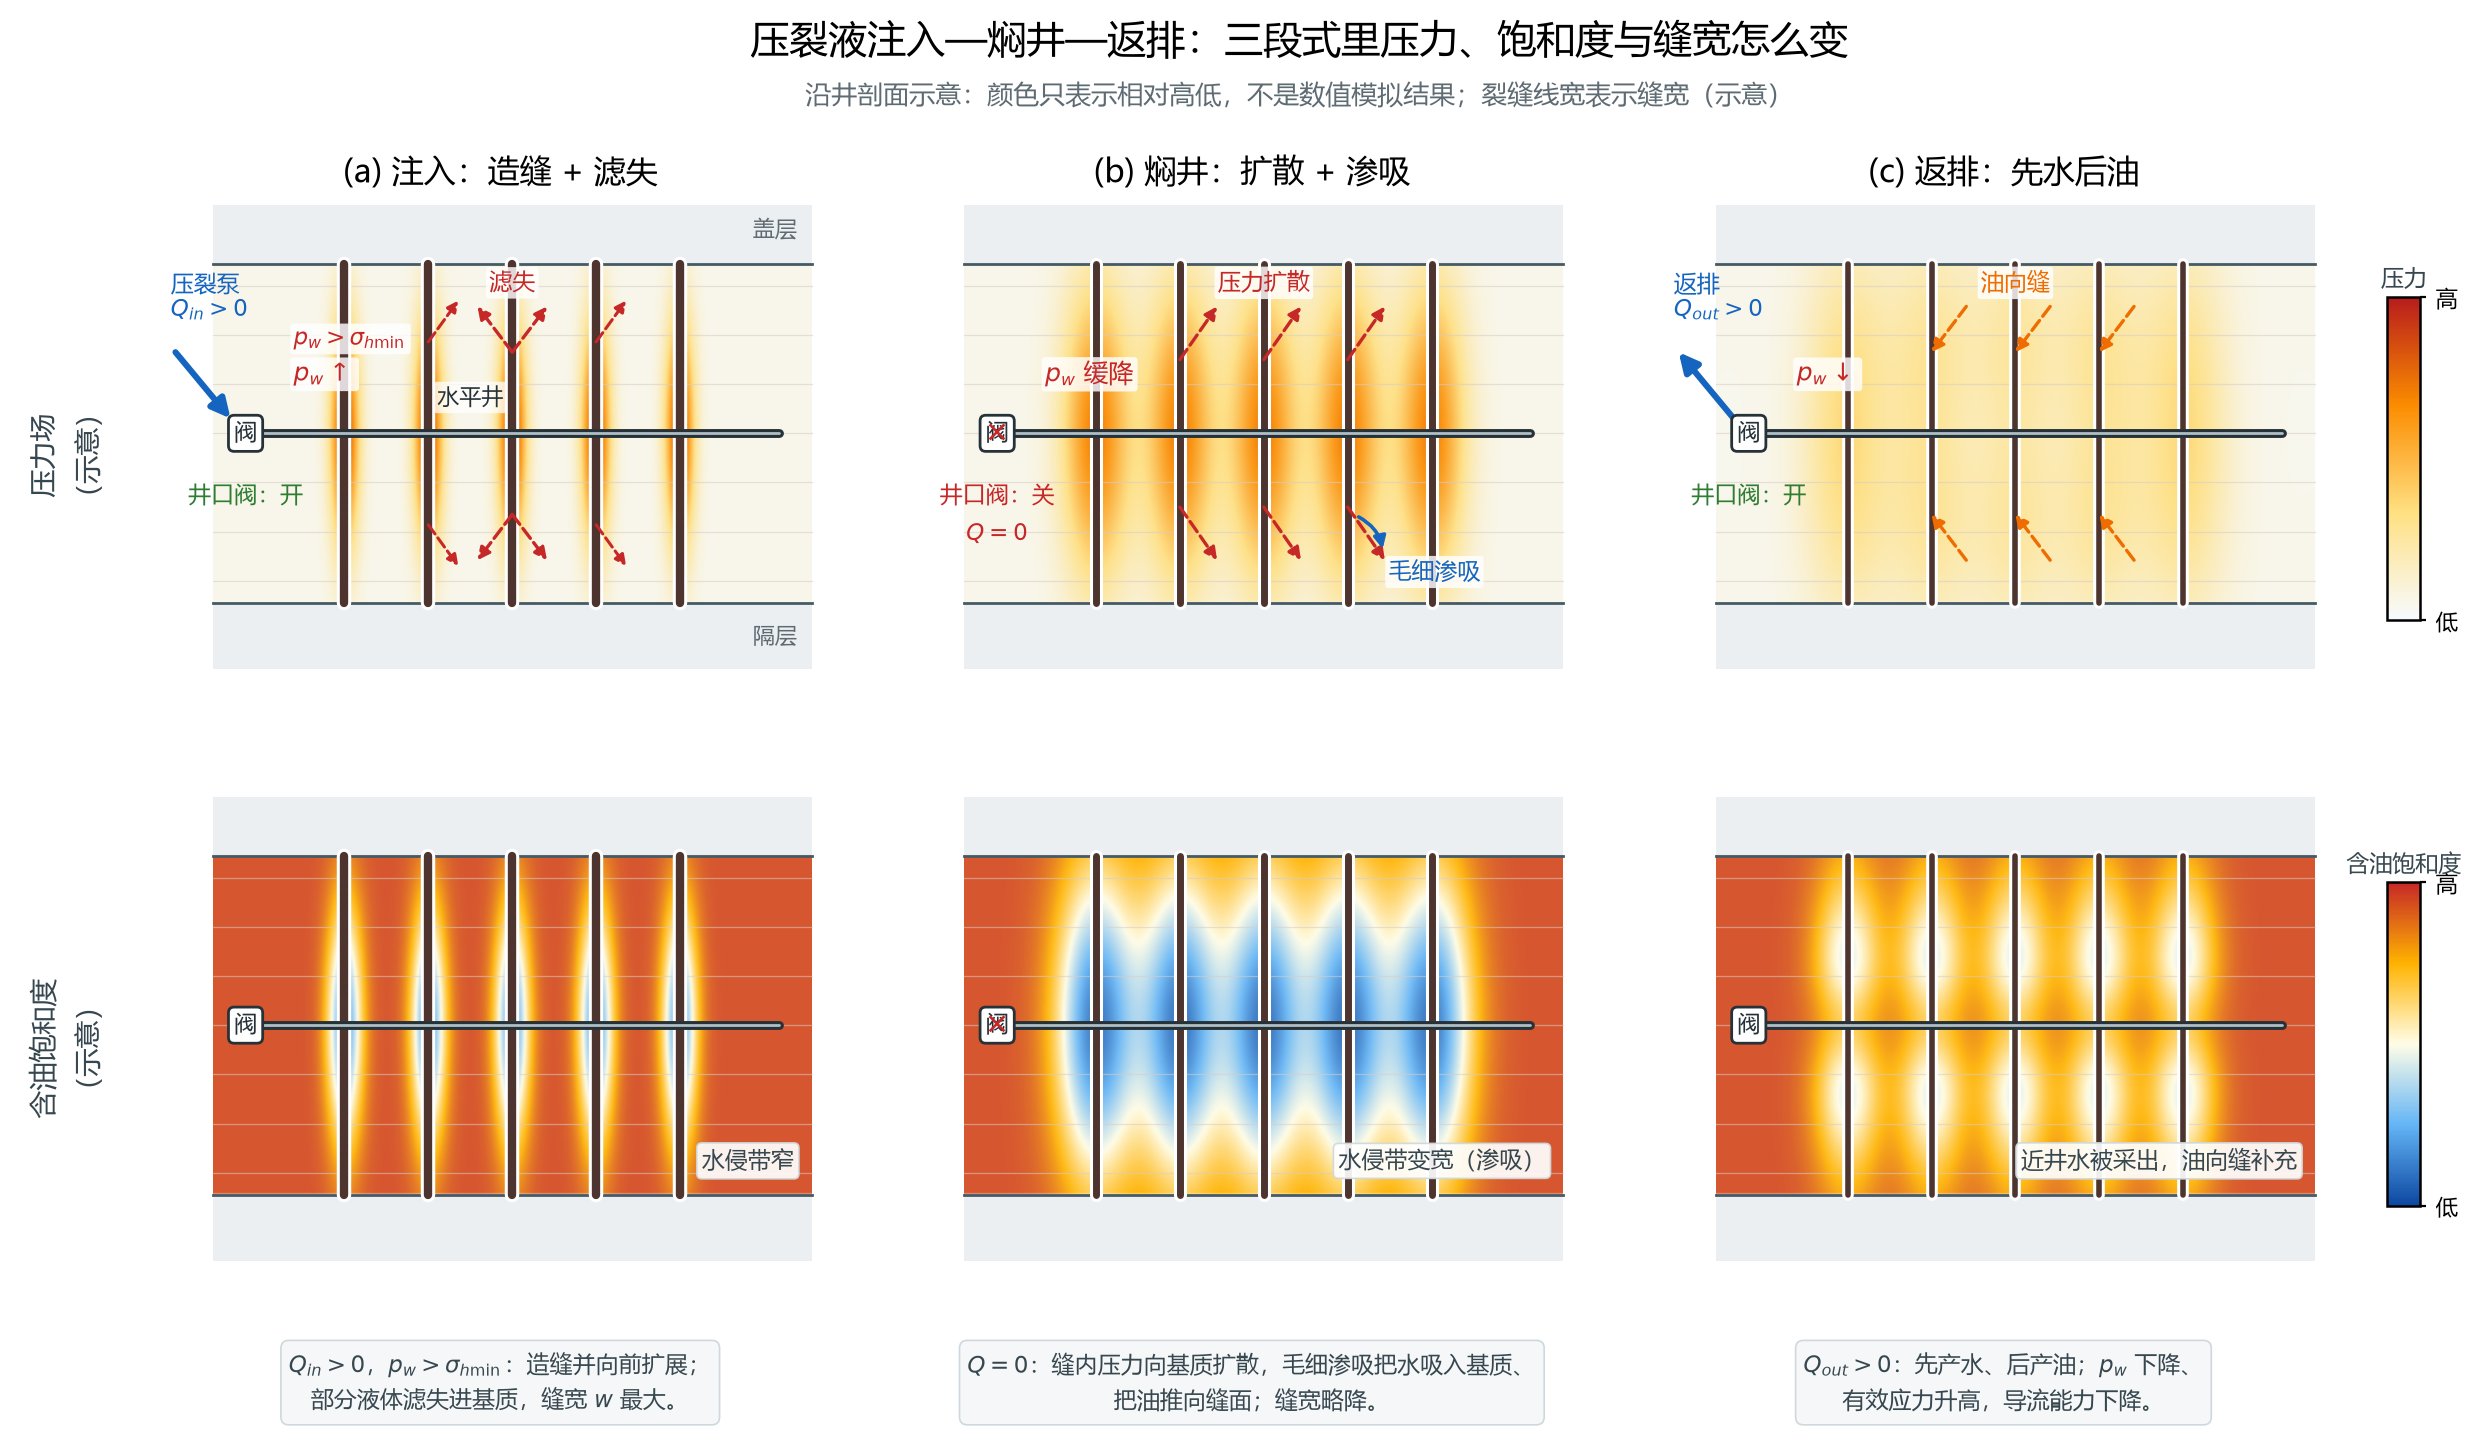
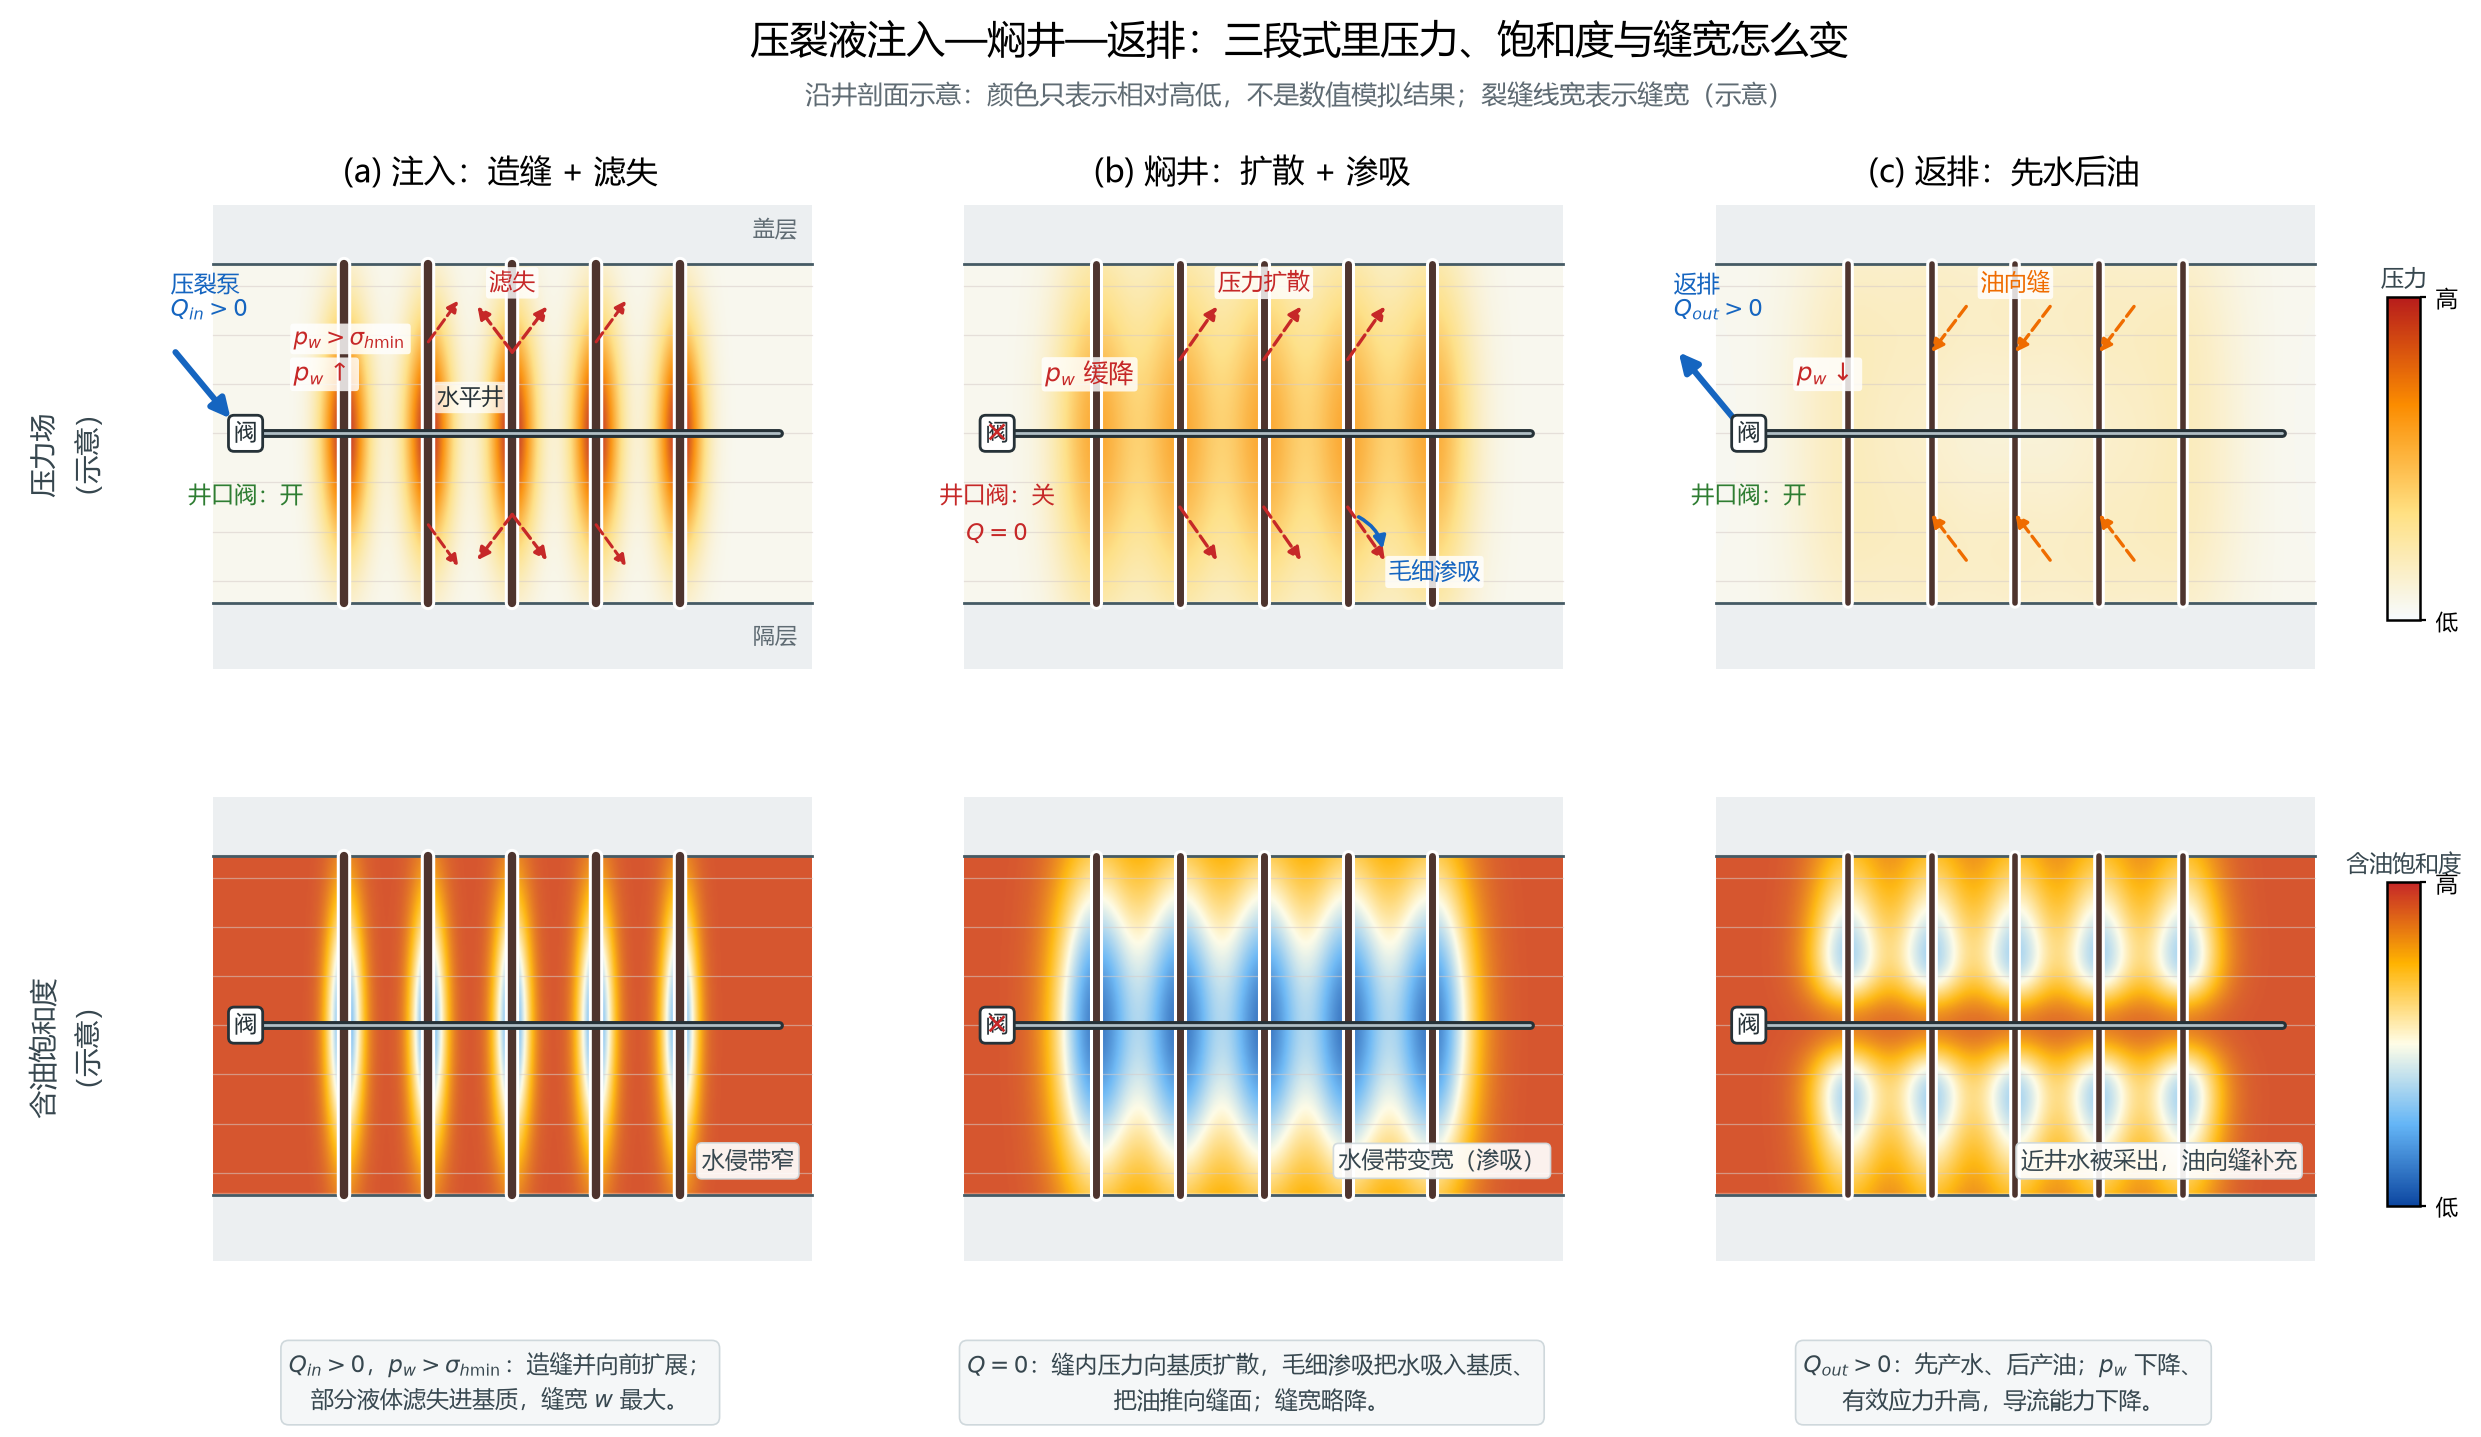
feat(fig46): deepen stage pressure contrast and sharpen flowback water waist

diff --git a/tools/make_figures.py b/tools/make_figures.py
@@ -3206,18 +3206,18 @@ def fig46():
 
     def pressure(stage):
         if stage == 0:
-            amp, sx, sy = 1.00, 0.17, 0.55
+            amp, sx, sy = 1.08, 0.28, 0.55
         elif stage == 1:
-            amp, sx, sy = 0.78, 0.40, 0.72
+            amp, sx, sy = 0.60, 0.48, 0.82
         else:
-            amp, sx, sy = 0.46, 0.52, 0.82
-        P = np.full_like(X, 0.06)
+            amp, sx, sy = 0.24, 0.66, 0.94
+        P = np.full_like(X, 0.05)
         for c in xf:
             P += amp * np.exp(-((X - c) ** 2 / (2 * sx ** 2)
                                 + Y ** 2 / (2 * sy ** 2)))
         if stage == 2:
-            P *= (1.0 - 0.45 * np.exp(-((X - 5.0) ** 2 / (2 * 2.2 ** 2)
-                                        + Y ** 2 / (2 * 0.55 ** 2))))
+            P *= (1.0 - 0.62 * np.exp(-((X - 5.0) ** 2 / (2 * 2.4 ** 2)
+                                        + Y ** 2 / (2 * 0.60 ** 2))))
         return np.where(in_res, P, np.nan)
 
     def oil(stage):
@@ -3226,14 +3226,14 @@ def fig46():
         elif stage == 1:
             amp, sx, sy = 0.56, 0.48, 0.76
         else:
-            amp, sx, sy = 0.48, 0.40, 0.68
+            amp, sx, sy = 0.56, 0.44, 0.70
         S = np.full_like(X, 0.68)
         for c in xf:
             bank = amp * np.exp(-((X - c) ** 2 / (2 * sx ** 2)
                                   + Y ** 2 / (2 * sy ** 2)))
             if stage == 2:
-                bank *= (0.40 + 0.60 * (1.0 - np.exp(
-                    -Y ** 2 / (2 * 0.28 ** 2))))
+                bank *= (0.10 + 0.90 * (1.0 - np.exp(
+                    -Y ** 2 / (2 * 0.24 ** 2))))
             S -= bank
         return np.where(in_res, S, np.nan)
 
